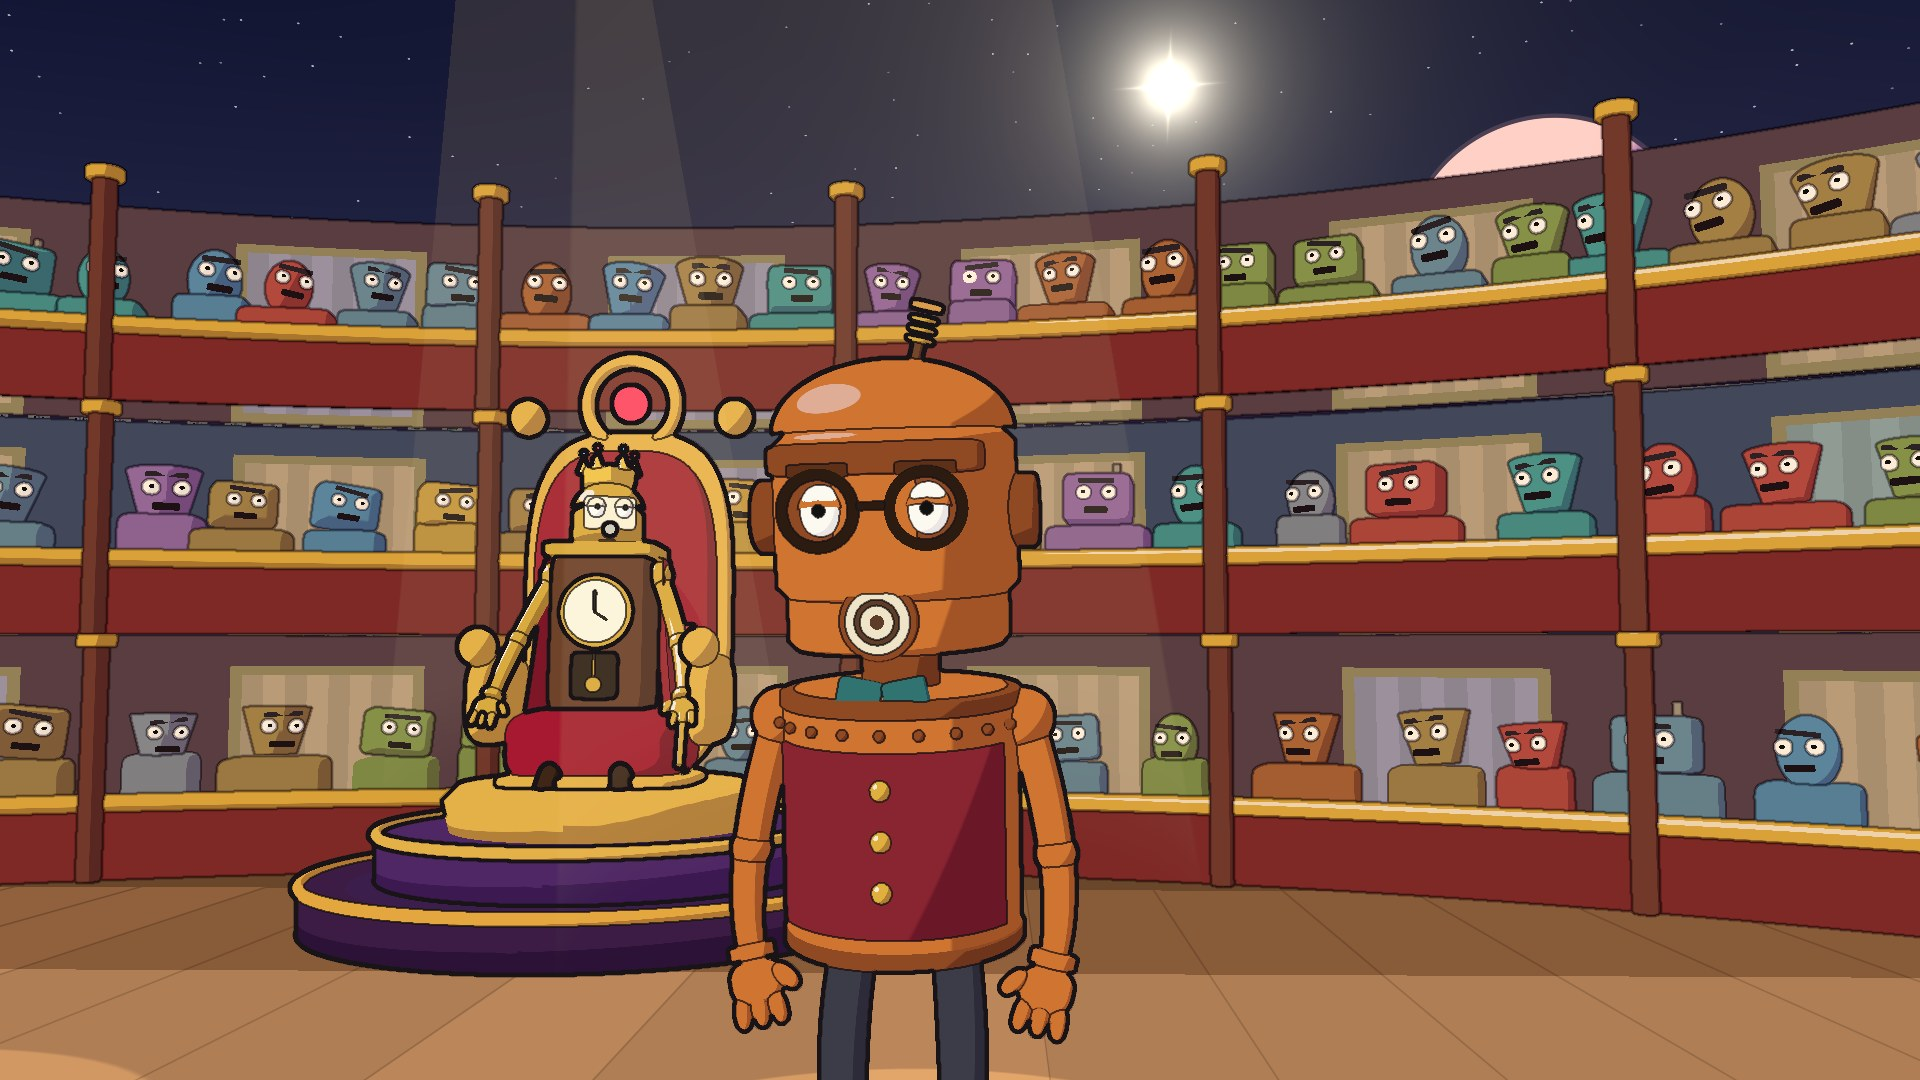
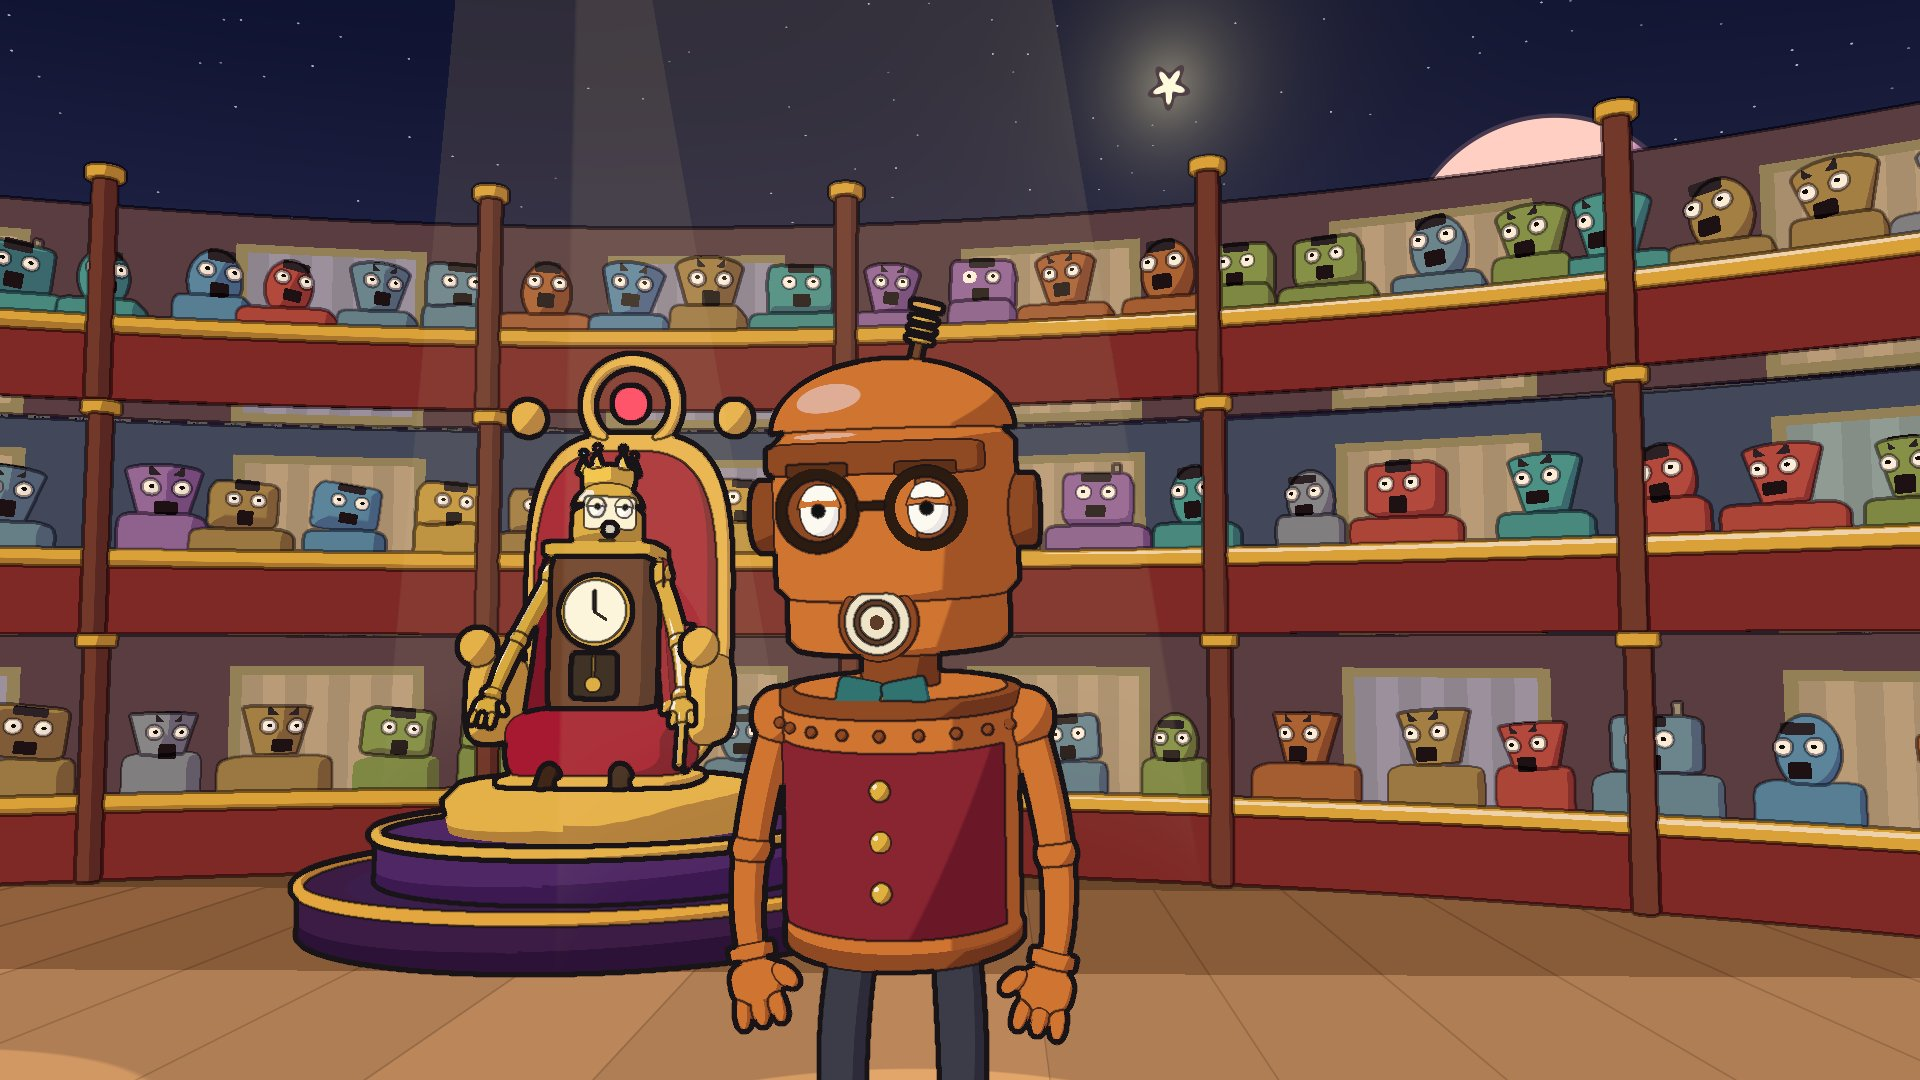
Chain clip round 3: globe at chest, clear wrist insert, waist bows, king-Barnaby tableau

diff --git a/visuals/one-more-dawn/src/lib/clips/chain.ts b/visuals/one-more-dawn/src/lib/clips/chain.ts
@@ -14,10 +14,11 @@
 //   E 64.42  Dramatic wide. Soldiers march in from both wings; Barnaby
 //            steps between them; they aim on "wars" (red flash). The
 //            children shelter at his side.
-//   F 67.20  Low hero medium: the globe held high. The soldiers lower their
-//            rifles on "never".
-//   G 68.46  Final tableau: soldiers snap to attention, Barnaby turns and
-//            bows to the king in profile on "reign", offering the globe.
+//   F 67.20  Low hero medium: the globe held out at his chest. The soldiers
+//            lower their rifles on "never".
+//   G 68.46  Final tableau: Barnaby crosses to the foot of the throne; a
+//            warm pool joins him and the king, Aria and the children watch
+//            them, the soldiers flank wide and salute; he bows on "reign".
 
 import { Color, Vector3, type PerspectiveCamera } from 'three/webgpu';
 import { applyPose, blankPose, copyPose, type Pose, type Rig, type V3 } from '../rig.ts';
@@ -130,8 +131,10 @@ function heading(t: number, xs: readonly Key[], zs: readonly Key[], fallback: nu
 
 // ---------------------------------------------------------------- Barnaby
 
-const BX: Key[] = [[START, 2.3], [65.1, 2.3], [66.35, 2.15], [T.brk + 0.1, 2.15], [T.reign - 0.1, 2.65]];
-const BZ: Key[] = [[START, 0.5], [65.1, 0.5], [66.35, 1.3], [T.brk + 0.1, 1.3], [T.reign - 0.1, 1.05]];
+// Stand-off a little upstage; after "never" he crosses to the foot of the
+// throne so the final tableau is a clear line between him and the king.
+const BX: Key[] = [[START, 2.3], [65.1, 2.3], [66.35, 2.0], [T.brk + 0.05, 2.0], [T.reign - 0.05, 2.5]];
+const BZ: Key[] = [[START, 0.5], [65.1, 0.5], [66.35, -0.2], [T.brk + 0.05, -0.2], [T.reign - 0.05, -1.4]];
 
 // Left hand, torso space. The right hand mirrors it unless given.
 const BL: VKey[] = [
@@ -150,20 +153,20 @@ const BL: VKey[] = [
   [64.1, [-0.18, 0.42, 0.5]], // protective, at the chest
   [T.wars - 0.2, [-0.18, 0.42, 0.5]],
   [T.wars + 0.05, [-0.22, 0.26, 0.46]], // anticipation
-  [T.wars + 0.35, [-0.22, 1.95, 0.12], backOut], // the future held high
-  [T.brk, [-0.22, 1.88, 0.12]],
+  [T.wars + 0.35, [-0.2, 0.5, 0.86], backOut], // the future held out, chest high
+  [T.brk, [-0.2, 0.47, 0.84]],
   [T.brk + 0.55, [-0.18, 0.52, 0.52]],
   [T.reign - 0.05, [-0.18, 0.5, 0.56]],
   // The bow: the chained left hand opens out, then sweeps across his chest.
-  [T.reign + 0.22, [-0.52, 0.62, 0.46]],
-  [T.reign + 0.7, [0.1, 0.56, 0.48], backOut],
+  [T.reign + 0.3, [-0.62, 0.66, 0.42]],
+  [T.reign + 0.85, [0.1, 0.5, 0.46], backOut],
   [END, [0.1, 0.56, 0.48]],
 ];
 const BR: VKey[] = [
   ...BL.filter(([t]) => t < T.reign).map(([t, v, e]) => [t, mirror(v), e] as VKey),
   // The right hand lowers the globe to his side and holds it there.
-  [T.reign + 0.25, [0.36, 0.32, 0.46]],
-  [T.reign + 0.8, [0.6, 0.0, 0.22]],
+  [T.reign + 0.35, [0.36, 0.32, 0.46]],
+  [T.reign + 0.95, [0.6, 0.0, 0.22]],
   [END, [0.6, 0.0, 0.22]],
 ];
 // Globe position in Barnaby's torso space while it rests at his side.
@@ -197,7 +200,9 @@ function barnaby(t: number, rig: Rig, out: Pose): void {
     [T.begged + 0.3, -0.3],
     [66.4, -0.05],
     [T.brk, -0.05],
-    [T.reign - 0.15, -1.22], // three-quarter profile so the bow and face read
+    [T.brk + 0.35, -2.75], // walks up toward the throne
+    [T.reign - 0.25, -2.7],
+    [T.reign + 0.1, -0.95], // cheated profile to the king, so the bow and face read
   ]);
   // Old-timer stoop, breathing.
   p.lean = 0.12 + Math.sin(t * 1.3) * 0.015;
@@ -226,15 +231,13 @@ function barnaby(t: number, rig: Rig, out: Pose): void {
   p.lean -= Math.max(0, -brace) * 0.15;
   // The bow on "reign": a waist bend with a knee dip, a nod of the head,
   // settled by 70.6 s and held still through the fade.
-  const bow = ekeys(t, [[T.reign - 0.05, 0], [T.reign + 0.6, 1.06, easeOut], [T.reign + 1.05, 1]]);
-  p.lean += bow * 0.22;
-  p.lift -= bow * 0.1;
-  // Hips go back as the chest goes forward, so the bend reads at the waist.
-  p.x -= Math.sin(p.yaw) * bow * 0.08;
-  p.z -= Math.cos(p.yaw) * bow * 0.08;
+  const bow = ekeys(t, [[T.reign + 0.1, 0], [T.reign + 0.75, 1.06, easeOut], [T.reign + 1.1, 1]]);
+  // The shared rig pushes the hips back once lean > 0.15, so this bends at
+  // the waist; the small sink bends the knees.
+  p.lean += bow * 0.32;
+  p.lift -= bow * 0.06;
   p.squash -= bow * 0.03;
-  p.bendL = 0.5;
-  const calm = ramp(t, T.reign + 0.6, T.reign + 1.1);
+  const calm = ramp(t, T.reign + 0.75, T.reign + 1.1);
   // Breathing settles so the final tableau holds still.
   p.lean -= Math.sin(t * 1.3) * 0.015 * calm;
   p.lift -= Math.sin(t * 1.6) * 0.008 * calm;
@@ -263,9 +266,10 @@ function barnaby(t: number, rig: Rig, out: Pose): void {
     [T.never, -0.3],
     [T.never + 0.35, 0.12],
     [T.brk + 0.4, 0.04],
-    [T.reign + 0.05, 0.02],
-    [T.reign + 0.5, 0.4, easeOut], // the nod
-    [T.reign + 0.95, 0.3],
+    [T.reign - 0.2, -0.24], // looks up at the king
+    [T.reign + 0.15, -0.18],
+    [T.reign + 0.7, 0.38, easeOut], // the nod: the neck bends with the waist
+    [T.reign + 1.1, 0.32],
   ]);
   p.headYaw = ekeys(t, [
     [START, 0],
@@ -285,8 +289,9 @@ function barnaby(t: number, rig: Rig, out: Pose): void {
     [T.never + 0.2, -0.3],
     [T.never + 0.45, 0.3],
     [T.brk + 0.2, 0],
-    [T.reign, 0],
-    [T.reign + 0.6, 0.12],
+    [T.reign - 0.2, -0.2],
+    [T.reign + 0.15, -0.55], // eyes on the king
+    [T.reign + 0.8, -0.45],
   ]);
   p.headRoll = Math.sin(t * 1.1) * 0.03 + span(t, T.chain + 0.5, T.begged, 0.5, 0.4) * 0.14 - span(t, T.hands, 60.6, 0.3, 0.4) * 0.08;
   p.lookX = p.headYaw * 0.5;
@@ -319,10 +324,13 @@ interface KidPlan {
 }
 
 const KIDS: [KidPlan, KidPlan] = [
-  // Pip: in from the left to Barnaby's side, then shelters behind him.
-  { xs: [[START, -2.7], [58.15, -2.7], [60.15, 0.75], [64.55, 0.75], [65.4, 2.75], [T.brk + 0.2, 2.75], [T.reign, 3.5]], zs: [[START, 0.55], [58.15, 0.55], [60.15, 0.95], [64.55, 0.95], [65.4, 0.6], [T.brk + 0.2, 0.6], [T.reign, 1.0]], delay: 0.12 },
-  // Dot: the smaller one, closer to Barnaby.
-  { xs: [[START, -1.45], [58.3, -1.45], [60.0, 1.35], [64.5, 1.35], [65.3, 3.2], [T.brk + 0.3, 3.2], [T.reign + 0.1, 4.0]], zs: [[START, 0.95], [58.3, 0.95], [60.0, 1.15], [64.5, 1.15], [65.3, 0.85], [T.brk + 0.3, 0.85], [T.reign + 0.1, 0.95]], delay: 0 },
+  // Pip: in from the left to Barnaby's side. While the camera is on the
+  // throne (shot B) both children go round to his far side, so the wrist
+  // insert is clear; they shelter beside him for the stand-off and follow
+  // him up to watch the king and Barnaby in the tableau.
+  { xs: [[START, -2.7], [58.15, -2.7], [60.15, 0.75], [60.75, 0.75], [61.35, 2.25], [62.0, 3.05], [65.3, 3.05], [66.4, 2.75], [T.brk + 0.2, 2.75], [T.reign + 0.1, 3.55]], zs: [[START, 0.55], [58.15, 0.55], [60.15, 0.95], [60.75, 0.95], [61.35, 1.3], [62.0, 0.05], [65.3, 0.05], [66.4, -0.75], [T.brk + 0.2, -0.75], [T.reign + 0.1, -1.55]], delay: 0.12 },
+  // Dot: the smaller one.
+  { xs: [[START, -1.45], [58.3, -1.45], [60.0, 1.35], [60.8, 1.35], [61.4, 2.4], [62.1, 3.45], [65.2, 3.45], [66.3, 3.25], [T.brk + 0.3, 3.25], [T.reign + 0.2, 4.05]], zs: [[START, 0.95], [58.3, 0.95], [60.0, 1.15], [60.8, 1.15], [61.4, 1.5], [62.1, 0.5], [65.2, 0.5], [66.3, -0.4], [T.brk + 0.3, -0.4], [T.reign + 0.2, -1.05]], delay: 0 },
 ];
 
 function kid(t: number, rig: Rig, out: Pose, which: 0 | 1): void {
@@ -336,10 +344,12 @@ function kid(t: number, rig: Rig, out: Pose, which: 0 | 1): void {
   const stand = ekeys(t, [
     [START, which === 0 ? 0.35 : -0.2],
     [60.2, which === 0 ? 0.95 : 0.75],
-    [64.5, which === 0 ? 0.95 : 0.75],
+    [60.75, which === 0 ? 0.95 : 0.75],
+    [62.1, which === 0 ? -1.0 : -1.3], // turned to Barnaby, on his far side
+    [64.5, which === 0 ? -1.0 : -1.3],
     [65.5, -0.35],
     [T.brk + 0.2 + d, -0.35],
-    [T.reign - 0.1 + d, -1.75],
+    [T.reign + 0.2 + d, which === 0 ? -1.75 : -1.7], // watching the king and Barnaby
   ]);
   p.yaw = lerp(stand, heading(t, plan.xs, plan.zs, stand), moving);
   walk(p, rig, phase, moving, 0.12, 0.09);
@@ -373,16 +383,20 @@ function kid(t: number, rig: Rig, out: Pose, which: 0 | 1): void {
   const peek = span(t, T.never + d, T.reign + d, 0.3, 0.4);
   p.handL = mixV(p.handL, [-0.2, 0.4, 0.2], peek);
   p.handR = mixV(p.handR, [0.2, 0.4, 0.2], peek);
-  // Bow with Barnaby on "reign".
-  const bow = ekeys(t, [[T.reign + d, 0], [T.reign + 0.5 + d, 1.1, easeOut], [T.reign + 1.0 + d, 1]]);
-  p.lean += bow * 0.36;
-  p.handL = mixV(p.handL, [-0.18, 0.12, 0.12], bow);
-  p.handR = mixV(p.handR, [0.18, 0.12, 0.12], bow);
+  // Bow with Barnaby on "reign": a waist bend (the rig pushes the hips
+  // back), knees dipped, hands clasped in front; eyes stay up on the pair.
+  const bow = ekeys(t, [[T.reign + 0.3 + d, 0], [T.reign + 0.85 + d, 1.1, easeOut], [T.reign + 1.2 + d, 1]]);
+  p.lean += bow * 0.4;
+  p.lift -= bow * 0.03;
+  p.handL = mixV(p.handL, [-0.06, 0.26, 0.22], bow);
+  p.handR = mixV(p.handR, [0.06, 0.26, 0.22], bow);
+  // Watch the king and Barnaby once they cross to the throne.
+  const watch = ramp(t, T.brk + 0.4 + d, T.reign + d);
   // Head: up at the globe in his hands, toward the wrist, the soldiers.
   const lookUp = span(t, 58.6, T.chain, 0.6, 0.2) * (1 - wonder * 0.4) + peek;
-  p.headPitch = -lookUp * 0.4 + flinch * 0.15 + bow * 0.15;
-  p.headYaw = -scared * 0.3 * (1 - flinch) + startle * -0.25;
-  p.lookY = lookUp * 0.7;
+  p.headPitch = -lookUp * 0.4 * (1 - watch) + flinch * 0.15 - watch * 0.22 + bow * 0.05;
+  p.headYaw = -scared * 0.3 * (1 - flinch) + startle * -0.25 * (1 - watch);
+  p.lookY = lookUp * 0.7 * (1 - watch) + watch * 0.55 + bow * 0.25;
   p.lookX = p.headYaw * 0.6;
   p.lid = 0.05 + blinkAt(t, 2 + which) - startle * 0.05;
   p.mouth = startle * 0.45 + flinch * 0.35;
@@ -403,12 +417,15 @@ function guard(t: number, rig: Rig, out: Pose, side: -1 | 1): void {
   const p = copyPose(rig.rest, out);
   const enter = side < 0 ? 63.5 : 64.15;
   // March in, halt facing Barnaby, step in on "wars", back off on "never".
-  const halt = side < 0 ? -0.3 : 4.75;
-  const xs: Key[] = [[START, side * 8.6], [enter, side < 0 ? -8.6 : 8.2], [66.25, halt], [T.wars - 0.1, halt], [T.wars + 0.25, halt - side * 0.28], [T.never, halt - side * 0.28], [T.brk, halt]];
-  const zs: Key[] = [[START, 1.45], [66.25, 1.45]];
+  const halt = side < 0 ? -0.45 : 4.45;
+  // After "never" they step back to flank the tableau, wide and upstage,
+  // framing the king and Barnaby symmetrically.
+  const flank = side < 0 ? -3.1 : 5.3;
+  const xs: Key[] = [[START, side * 8.6], [enter, side < 0 ? -8.6 : 8.2], [66.25, halt], [T.wars - 0.1, halt], [T.wars + 0.25, halt - side * 0.28], [T.never, halt - side * 0.28], [T.brk, halt], [T.reign - 0.1, flank]];
+  const zs: Key[] = [[START, -0.1], [T.brk, -0.1], [T.reign - 0.1, -2.0]];
   p.x = keys(t, xs, smooth);
   p.z = keys(t, zs, smooth);
-  const moving = clamp01(speedOf(t, xs, zs) / 1.2) * (t < 66.3 ? 1 : 0);
+  const moving = clamp01(speedOf(t, xs, zs) / 1.2) * (t < 66.3 ? 1 : t > T.brk ? 0.5 : 0);
   const phase = travelled(t, xs, zs) * 5.2;
   walk(p, rig, phase, moving, 0.17, 0.24);
   // Halt with a stamp.
@@ -418,6 +435,8 @@ function guard(t: number, rig: Rig, out: Pose, side: -1 | 1): void {
   const face = -side * (Math.PI / 2 + 0.25 * ramp(t, 66.0, 66.6));
   const ease = ekeys(t, [[T.never + 0.15, 0], [T.brk + 0.1, 1]]);
   p.yaw = lerp(face, -side * 1.3, ease);
+  // Turn in toward the pair at the throne for the tableau.
+  p.yaw = lerp(p.yaw, -side * 1.85, ramp(t, T.brk + 0.3, T.reign));
   // Aim on "wars": a pull back, then a snap with overshoot; lowered on "never".
   const aim = ekeys(t, [[T.wars - 0.3, 0], [T.wars - 0.08, -0.12], [T.wars + 0.12, 1, backOut], [T.never - 0.05, 1], [T.never + 0.4, 0]]);
   const a = clamp01(aim);
@@ -451,7 +470,7 @@ type Shot = { at: number; to: number; p0: V3; l0: V3; p1: V3; l1: V3; ease?: Eas
 
 const SHOTS: Shot[] = [
   // A: medium two-shot, pushing in as the globe lands.
-  { at: START, to: 60.4, p0: [2.6, 1.8, 6.2], l0: [2.5, 2.2, 0.3], p1: [1.85, 1.6, 5.3], l1: [1.75, 1.7, 0.4] },
+  { at: START, to: 60.4, p0: [2.6, 1.8, 6.2], l0: [2.5, 2.2, 0.3], p1: [1.95, 1.6, 5.3], l1: [1.88, 1.7, 0.4] },
   // B: low wide on the throne: the sceptre rises, the chain whips out.
   { at: 60.65, to: 62.45, p0: [1.2, 1.75, 0.1], l0: [0.6, 2.05, -4.3], p1: [1.05, 1.7, -0.4], l1: [0.6, 2.05, -4.3] },
   // C: insert on the wrist (follows the real wrist; see shotCamera).
@@ -459,9 +478,10 @@ const SHOTS: Shot[] = [
   // E: the stand-off, slow push.
   { at: T.begged, to: 67.2, p0: [2.2, 2.2, 9.6], l0: [2.2, 1.7, -0.6], p1: [2.2, 1.95, 8.0], l1: [2.2, 1.65, -0.6] },
   // F: low hero medium, the globe held high.
-  { at: 67.2, to: T.brk, p0: [1.95, 1.2, 5.6], l0: [1.95, 2.15, 0.9], p1: [1.95, 1.2, 5.3], l1: [1.95, 2.2, 0.9] },
-  // G: final tableau; the push ends at 70.6 and the frame holds.
-  { at: T.brk, to: 70.6, p0: [1.7, 2.4, 10.2], l0: [1.6, 1.7, -1.4], p1: [1.7, 2.3, 9.4], l1: [1.6, 1.72, -1.4] },
+  { at: 67.2, to: T.brk, p0: [1.85, 1.25, 4.1], l0: [1.85, 2.0, -0.6], p1: [1.85, 1.25, 3.8], l1: [1.85, 2.05, -0.6] },
+  // G: final tableau, a line from the king down to Barnaby at the foot of
+  // the throne, framed by the soldiers; the push ends at 70.6 and holds.
+  { at: T.brk, to: 70.6, p0: [1.25, 2.15, 6.6], l0: [1.25, 1.75, -2.4], p1: [1.25, 2.0, 5.7], l1: [1.25, 1.85, -2.6] },
 ];
 
 const camPos = new Vector3();
@@ -512,6 +532,7 @@ const barnWorld = new Vector3();
 const kingWorld = new Vector3(0, 0, -4.4);
 const light2 = new Color(1.0, 0.82, 0.6);
 const neutral = new Color();
+const pairWarm = new Color(1.0, 0.86, 0.62);
 
 // The shared Chain faces each torus along the path, which reads as a coil.
 // Turn every link so its plane contains the path and stretch it into an
@@ -542,12 +563,19 @@ export const clip = {
     // Aria glides to the foot of the throne so the stand-off has room.
     ariaPose(t, cast.aria, base.aria);
     copyPose(base.aria, mine.aria);
-    const AX: Key[] = [[START, -5.2], [58.3, -5.2], [60.6, -2.4]];
-    const AZ: Key[] = [[START, -3.3], [58.3, -3.3], [60.6, -2.2]];
+    // In the tableau she drifts in a little and turns to watch the pair.
+    const AX: Key[] = [[START, -5.2], [58.3, -5.2], [60.6, -2.4], [T.brk, -2.4], [T.reign, -1.85]];
+    const AZ: Key[] = [[START, -3.3], [58.3, -3.3], [60.6, -2.2], [T.brk, -2.2], [T.reign, -2.75]];
     mine.aria.x = keys(t, AX, smooth);
     mine.aria.z = keys(t, AZ, smooth);
     const ariaMoving = clamp01(speedOf(t, AX, AZ) / 1.2);
-    mine.aria.yaw = lerp(keys(t, [[START, 0.55], [60.4, 0.55], [61.0, 0.8]]), heading(t, AX, AZ, 0.8), ariaMoving);
+    mine.aria.yaw = lerp(keys(t, [[START, 0.55], [60.4, 0.55], [61.0, 0.8], [T.brk + 0.2, 0.8], [T.reign + 0.1, 1.75]]), heading(t, AX, AZ, 0.8), ariaMoving * (t < T.brk ? 1 : 0));
+    // Eye-line: head and eyes on the king and Barnaby.
+    const ariaWatch = ramp(t, T.brk + 0.3, T.reign + 0.2);
+    mine.aria.headYaw = lerp(mine.aria.headYaw, 0, ariaWatch);
+    mine.aria.headPitch -= ariaWatch * 0.08;
+    mine.aria.lookX = lerp(mine.aria.lookX, 0, ariaWatch);
+    mine.aria.lookY = lerp(mine.aria.lookY, 0.3, ariaWatch);
     mine.aria.lean += ariaMoving * 0.06;
     // Hand to heart for the bow.
     const heart = span(t, T.reign, END + 2, 0.6, 0.5);
@@ -602,7 +630,8 @@ export const clip = {
     mine.king.lookY = kAlarm * 0.35 - content * 0.2;
     mine.king.lean -= kAlarm * 0.06;
     mine.king.headPitch -= kAlarm * 0.1;
-    mine.king.headYaw += content * 0.15;
+    // In the tableau the king turns to Barnaby at the foot of the throne.
+    mine.king.headYaw += content * 0.15 + ramp(t, T.brk + 0.4, T.reign) * 0.15;
     mine.king.mouth = kAlarm * 0.35;
     put(cast.king, base.king, mine.king, w);
 
@@ -630,7 +659,7 @@ export const clip = {
       globe.group.position.lerp(chest, hold);
     }
     // During the bow the globe lowers to his side in the right hand.
-    const lower = ramp(t, T.reign + 0.2, T.reign + 0.8, smooth);
+    const lower = ramp(t, T.reign + 0.3, T.reign + 0.95, smooth);
     if (lower > 0) {
       const side = cast.barnaby.torso.localToWorld(tmpC.set(GLOBE_SIDE[0], GLOBE_SIDE[1], GLOBE_SIDE[2]));
       globe.group.position.lerp(side, lower);
@@ -661,21 +690,31 @@ export const clip = {
     // line of fire.
     const kidsX = (cast.pip.root.position.x + cast.dot.root.position.x) / 2;
     const kidsZ = (cast.pip.root.position.z + cast.dot.root.position.z) / 2;
-    const kidLevel = keys(t, [[START, 1.0], [T.begged, 1.0], [T.begged + 0.6, 0.75], [T.reign, 0.75], [T.reign + 0.5, 0.9]]);
+    const kidLevel = keys(t, [[START, 1.0], [T.begged, 1.0], [T.begged + 0.6, 0.75], [T.brk, 0.75], [T.reign + 0.3, 0.5]]);
     setSpot(2, lerp(-2.05, kidsX, w), lerp(0.7, kidsZ, w), lerp(1.6, 1.2, w), kidLevel, light2);
-    // No red floor wash: the stand-off reads through staging. Spot 4 off.
-    setSpot(4, 1.4, 1.3, 4.2, 0, red);
+    // No red floor wash: the stand-off reads through staging. In the
+    // tableau spot 4 becomes a warm pool joining the king and Barnaby, his
+    // follow spot and the throne spot come up and everything else drops.
+    const pair = ramp(t, T.brk + 0.2, T.reign + 0.4);
+    setSpot(4, lerp(1.4, 1.1, pair), lerp(1.3, -2.8, pair), lerp(4.2, 2.0, pair), pair * 0.6, pair > 0 ? pairWarm : red);
+    if (pair > 0) {
+      const b = light.spots[1].shape.value;
+      setSpot(1, barnWorld.x, barnWorld.z + 0.1, lerp(b.z, 1.1, pair), lerp(b.w, 1.55, pair), pairWarm);
+      const k3 = light.spots[3].shape.value;
+      k3.w = Math.max(k3.w, 1.6 * pair);
+      light.spots[0].shape.value.w *= 1 - pair * 0.6;
+    }
     // Keep the key neutral so Aria's white and the cast colours hold from
     // 57.4 to the fade; a brief neutral pop marks "wars".
     const k = light.key.value;
     const level = (k.r + k.g + k.b) / 3;
     const pop = 1 + span(t, T.wars - 0.05, T.wars + 0.4, 0.04, 0.35) * 0.25;
-    neutral.setRGB(1, 0.97, 0.92).multiplyScalar((level / 0.963) * pop * keys(t, [[T.reign, 1], [T.reign + 0.6, 1.3]]));
+    neutral.setRGB(1, 0.97, 0.92).multiplyScalar((level / 0.963) * pop * keys(t, [[T.brk, 1], [T.reign + 0.4, 0.62]]));
     k.lerp(neutral, w);
     // Aria's follow spot was dawn pink; keep it a neutral white.
     light.spots[0].color.value.lerp(neutral.setRGB(1.0, 0.97, 0.93), w);
-    // Footlights dip for the wide stand-off and warm up for the tableau.
-    set.footLevel.value *= 1 + span(t, T.reign, END + 2, 0.8, 0.5) * 0.35;
+    // Footlights drop for the tableau so the pair's pool leads.
+    set.footLevel.value *= 1 - ramp(t, T.brk, T.reign + 0.4) * 0.45;
 
     shotCamera(t, cam);
   },
